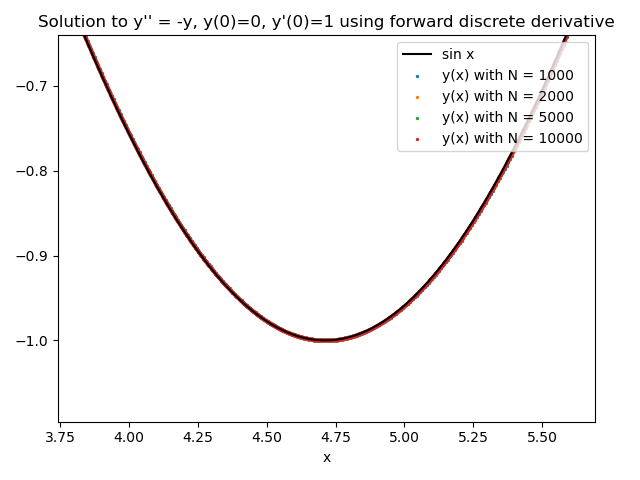
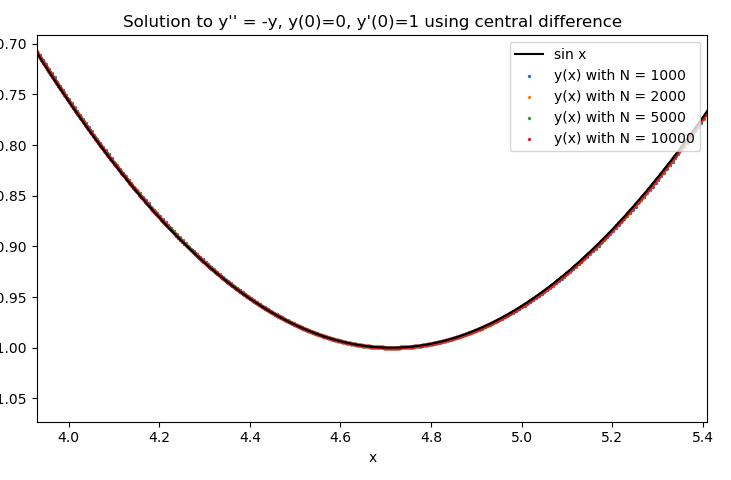
completed problem 1

diff --git a/1/problem1.py b/1/problem1.py
@@ -61,7 +61,7 @@ def dscrt(xi, xf, yi, dyi, steps) :
 # results
 step = [1000, 2000, 5000, 10000]
 for N in step :
-    x, y = frwrd(a, b, y0, dy0, N)
+    x, y = dscrt(a, b, y0, dy0, N)
     plt.scatter(x, y, s=2)
 
 # actual solution
@@ -72,8 +72,8 @@ endTime = datetime.now()
 print("Execution time : ", endTime - startTime)
 
 plt.plot(u, sin, color='black')
-plt.title("Solution to y'' = -y, y(0)=0, y'(0)=1 using forward difference")
-# plt.title("Solution to y'' = -y, y(0)=0, y'(0)=1 using central difference")
+# plt.title("Solution to y'' = -y, y(0)=0, y'(0)=1 using forward difference")
+plt.title("Solution to y'' = -y, y(0)=0, y'(0)=1 using central difference")
 plt.xlabel("x")
 plt.legend(["sin x", "y(x) with N = 1000", "y(x) with N = 2000", "y(x) with N = 5000", "y(x) with N = 10000"], loc='upper right')
 plt.show()
